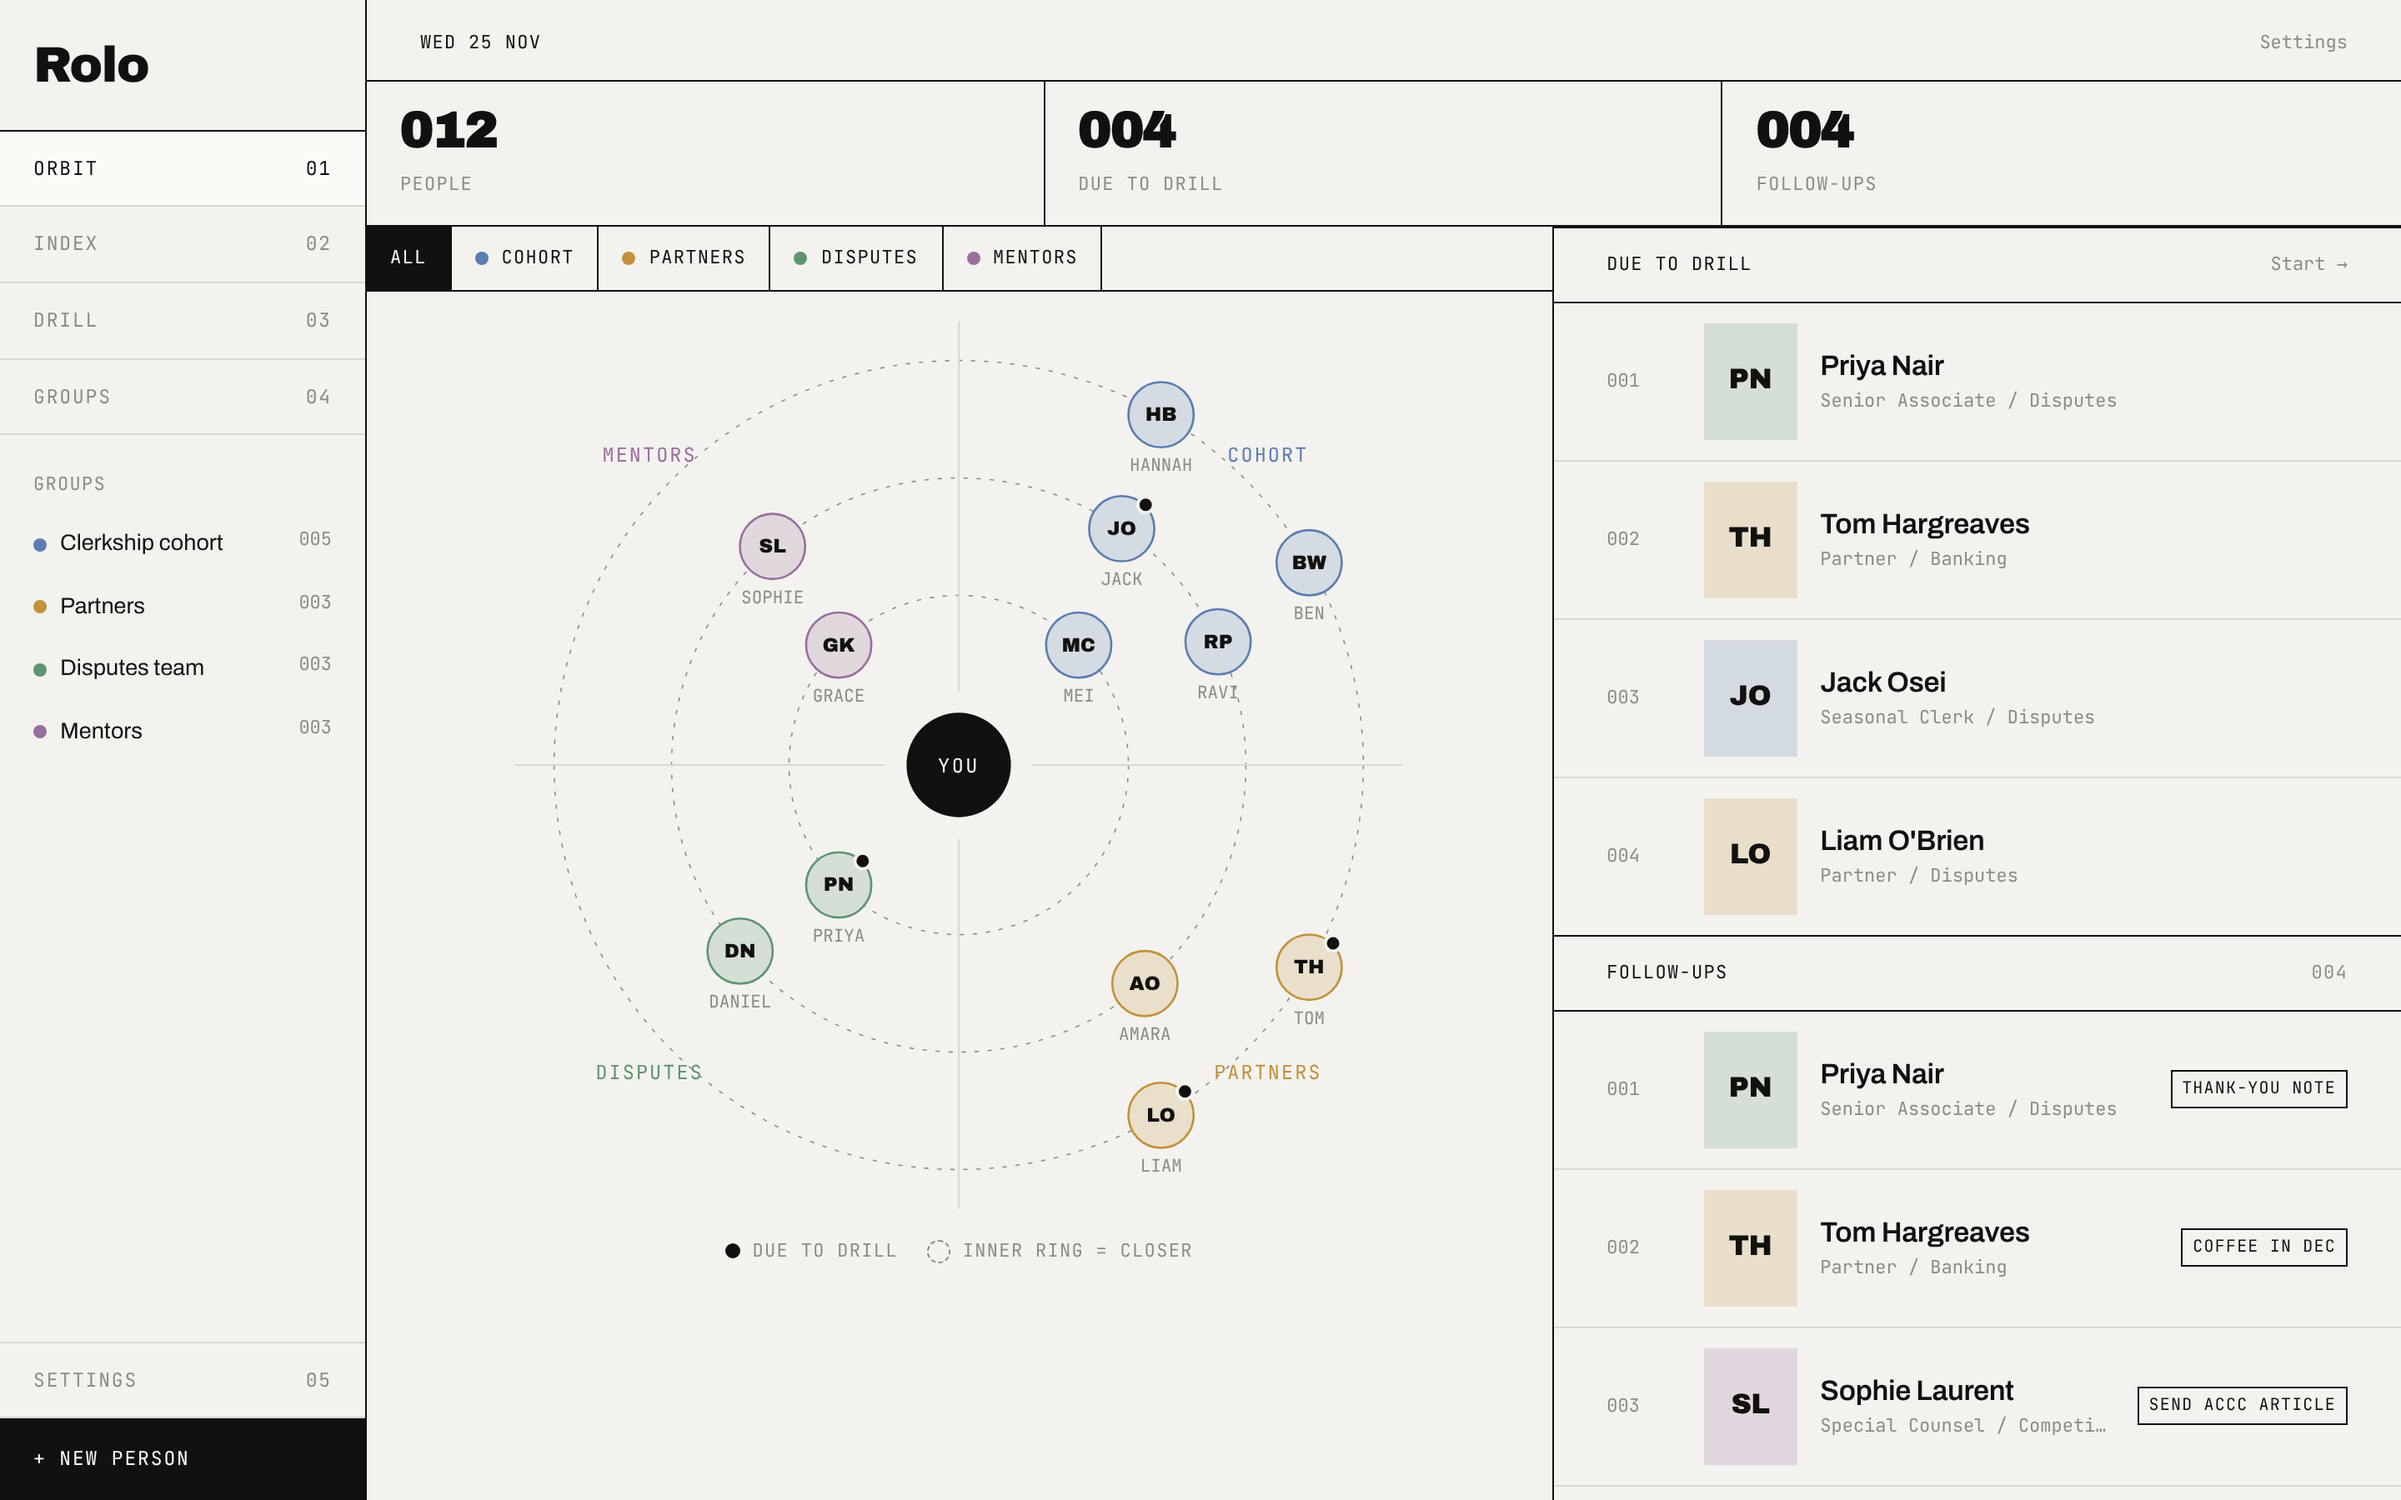
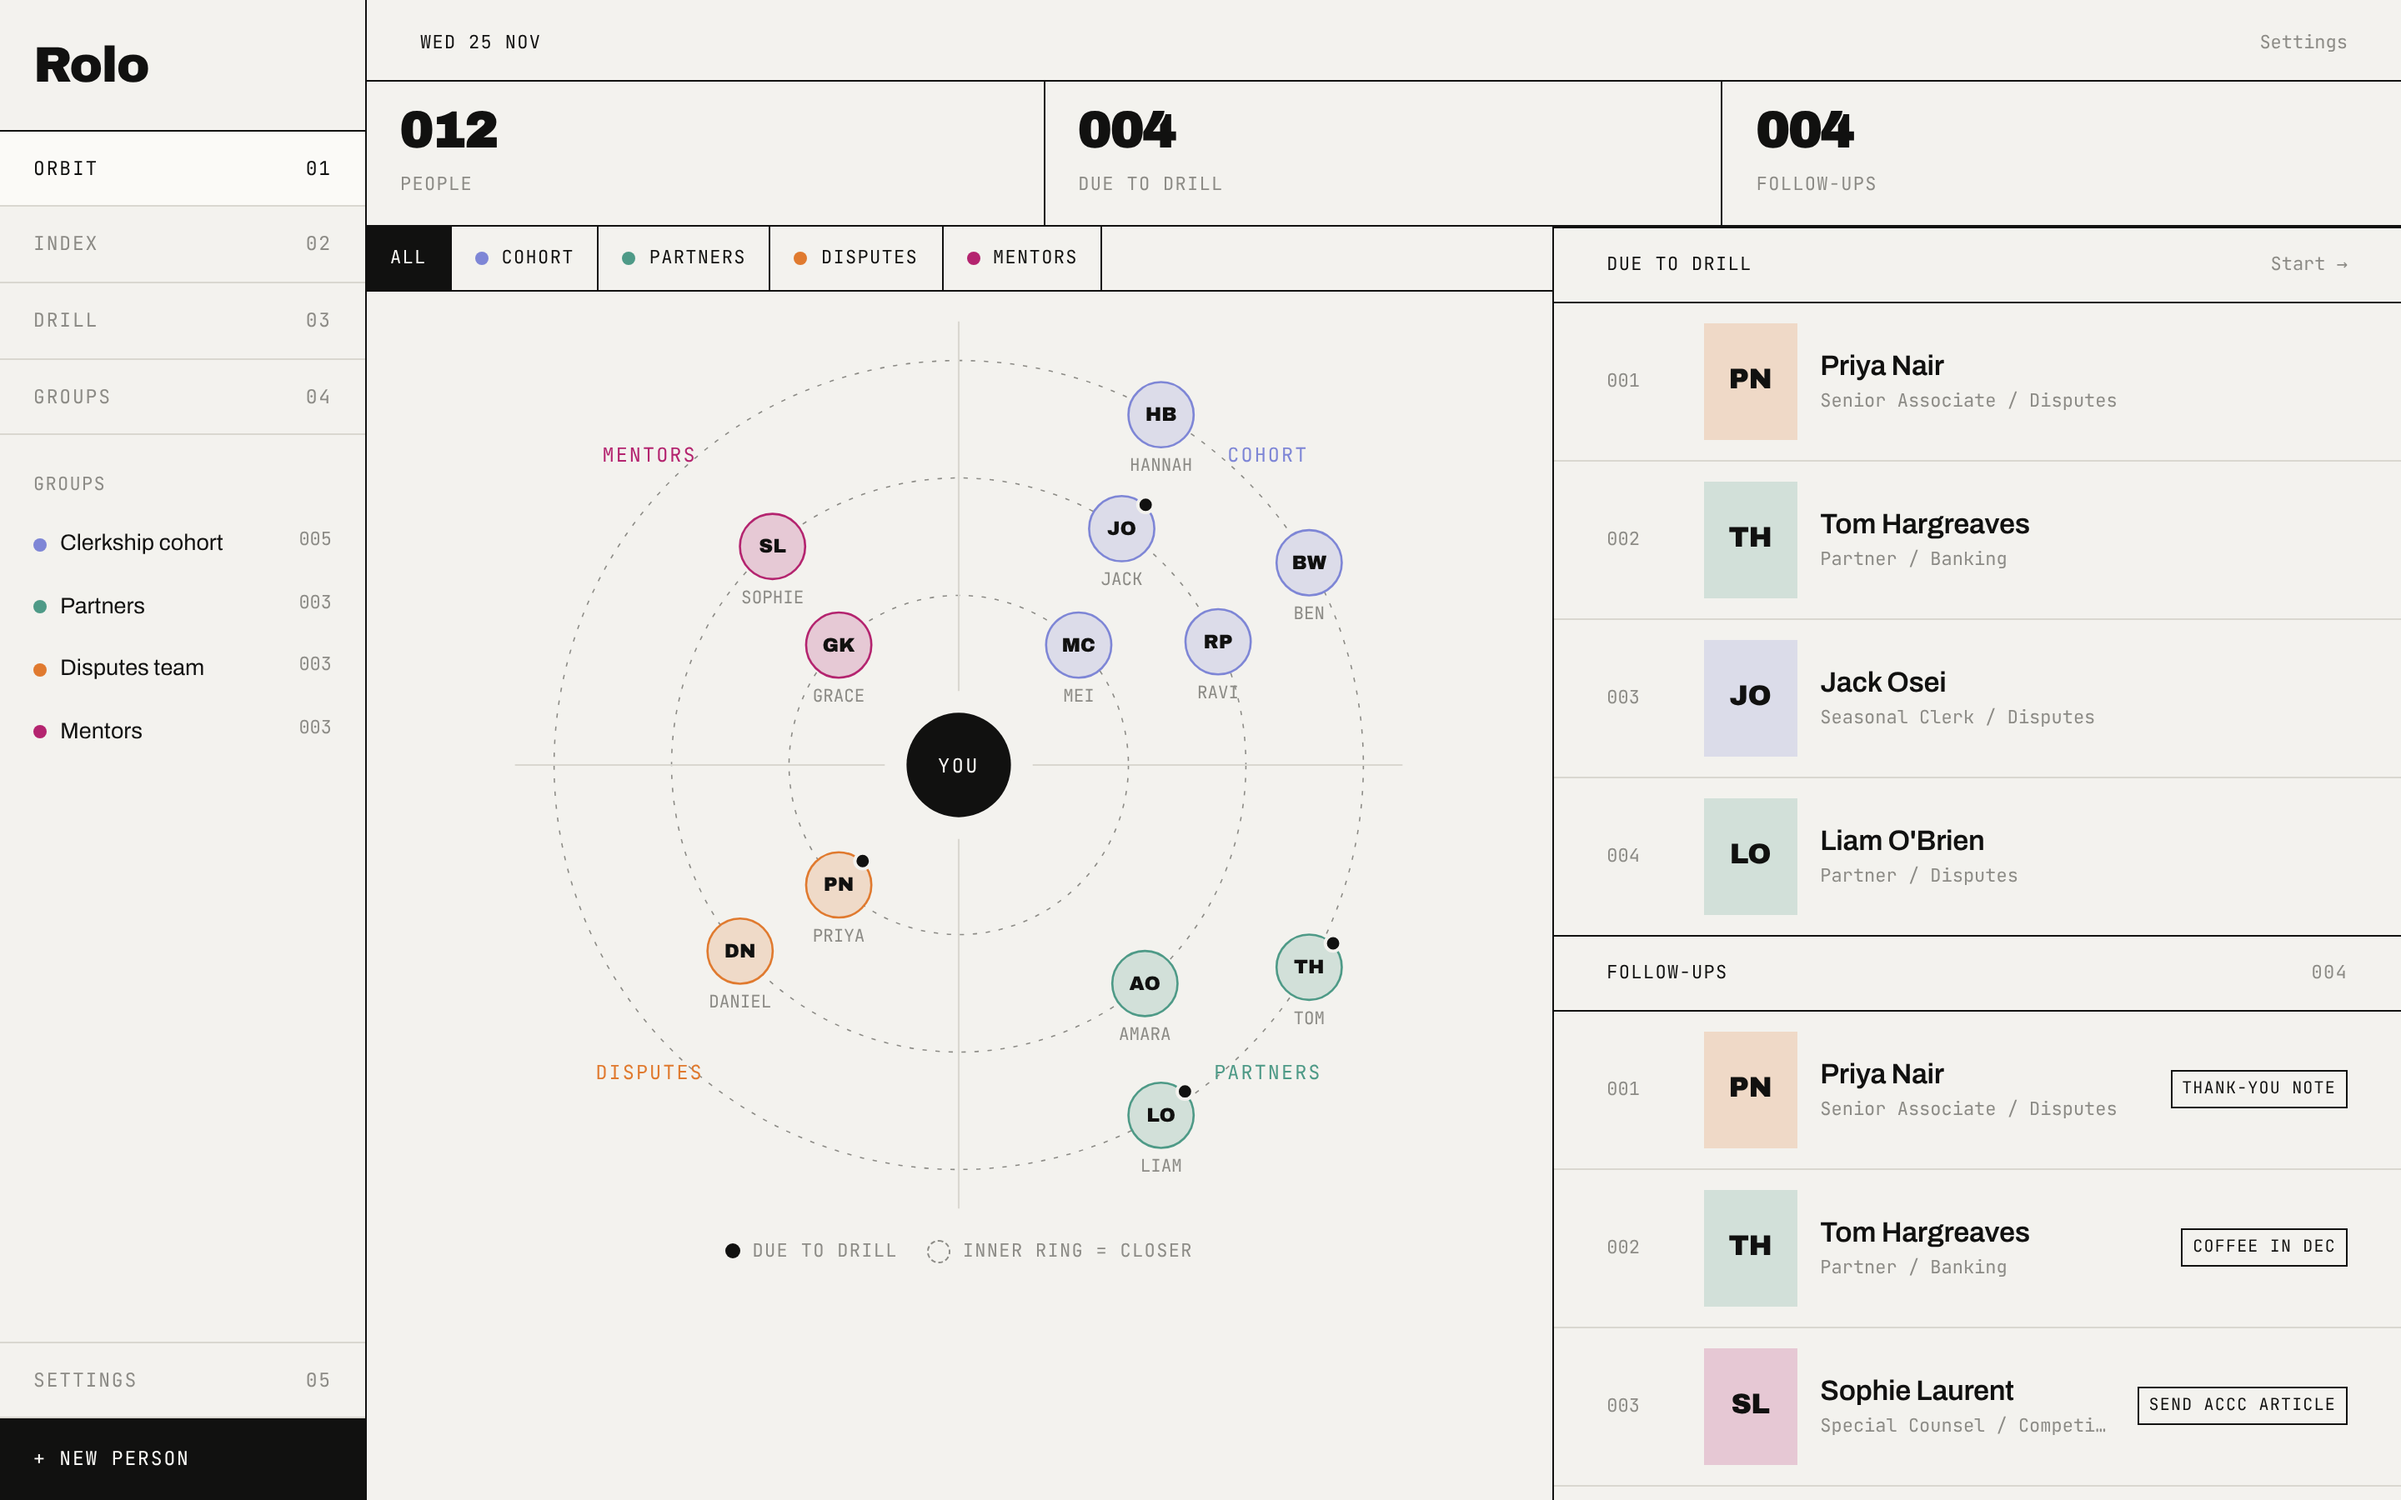
Colour mode: Big Six law firm palette, per-group colour picker, editable hexes
Claude-Session: https://claude.ai/code/session_01R71v8Qe5o2c96vbEDfs1Lo

diff --git a/mockup/index.html b/mockup/index.html
@@ -150,6 +150,11 @@ main{min-width:0;padding:0 0 96px}
 .tog.on i{transform:translateX(22px);background:var(--white)}
 .sw{display:inline-block;width:8px;height:8px;border-radius:50%;margin-right:8px;vertical-align:middle}
 .filters button.on .sw{outline:1px solid var(--white)}
+.swatches{display:flex;flex-wrap:wrap;gap:6px;justify-content:flex-end;max-width:212px;flex:none}
+.swb{width:20px;height:20px;border-radius:50%}
+.swb.on{outline:1.5px solid var(--ink);outline-offset:2px}
+.swl{width:36px;height:36px;border-radius:50%;position:relative;overflow:hidden;flex:none;border:1px solid var(--soft)}
+.swl input{position:absolute;inset:-6px;opacity:0;cursor:pointer}
 /* sheet */
 .scrim{position:fixed;inset:0;background:rgba(17,17,16,.25);display:none;z-index:30;align-items:flex-end;justify-content:center}
 .scrim.on{display:flex}
@@ -177,12 +182,26 @@ main{min-width:0;padding:0 0 96px}
 <div class="scrim" id="scrim"><div class="sheet" id="sheet"></div></div>
 
 <script>
-const groups = [
-  {id:'cohort',  name:'Clerkship cohort', short:'Cohort',  c:'#5B7DB1'},
-  {id:'partners',name:'Partners',         short:'Partners',c:'#C2913A'},
-  {id:'disputes',name:'Disputes team',    short:'Disputes',c:'#5F9472'},
-  {id:'mentors', name:'Mentors',          short:'Mentors', c:'#9A6FA0'},
+// Firm palette: one colour per Big Six firm (plus two alternates). Hexes are approximations; edit in Settings.
+const palette = [
+  {id:'kwm',     firm:'King & Wood Mallesons', name:'Periwinkle',     hex:'#7E86D6'},
+  {id:'kwm2',    firm:'King & Wood Mallesons', name:'Blackcurrant',   hex:'#3E2147'},
+  {id:'apc',     firm:'Ashurst Perkins Coie',  name:'Liberty green',  hex:'#4E9A87'},
+  {id:'ash',     firm:'Ashurst (prior)',       name:'Orange',         hex:'#E07A2F'},
+  {id:'allens',  firm:'Allens',                name:'Magenta',        hex:'#B4246F'},
+  {id:'hsf',     firm:'HSF Kramer',            name:'Slate teal',     hex:'#2F6B7C'},
+  {id:'cu',      firm:'Clayton Utz',           name:'Navy',           hex:'#22385E'},
+  {id:'minter',  firm:'MinterEllison',         name:'Rose',           hex:'#C9577A'},
 ];
+const P = id => palette.find(x=>x.id===id);
+(JSON.parse(localStorage.getItem('rolo-palette')||'[]')).forEach(([id,h])=>{ if(P(id)) P(id).hex=h });
+const groups = [
+  {id:'cohort',  name:'Clerkship cohort', short:'Cohort',  pc:'kwm'},
+  {id:'partners',name:'Partners',         short:'Partners',pc:'apc'},
+  {id:'disputes',name:'Disputes team',    short:'Disputes',pc:'ash'},
+  {id:'mentors', name:'Mentors',          short:'Mentors', pc:'allens'},
+];
+groups.forEach(g=>Object.defineProperty(g,'c',{get(){return P(g.pc).hex}}));
 // ring: 1 = inner (close), 2 = middle, 3 = outer (acquaintance)
 const people = [
   {id:1,first:'Priya',last:'Nair',role:'Senior Associate',team:'Disputes',groups:['disputes','mentors'],ring:1,due:true,met:'Clerkship wk 2, team lunch',hook:'Training for the Sydney marathon',follow:'Thank-you note',notes:[['03 Nov','Offered to review my research memo. Follow up after exams.'],['20 Oct','Grew up in Perth. Loves bouldering.']]},
@@ -209,6 +228,8 @@ const tint = p => state.colour ? gc(p)+'33' : 'var(--faint)';
 const mix = (hex,t) => '#'+[1,3,5].map(i=>Math.round(parseInt(hex.substr(i,2),16)*t+[0xF3,0xF2,0xEE][(i-1)/2]*(1-t)).toString(16).padStart(2,'0')).join('');
 const deep = p => state.colour ? gc(p) : 'var(--ink)';
 const sw = g => state.colour ? `<i class="sw" style="background:${g.c}"></i>` : '';
+function setHex(id,h){ P(id).hex=h; localStorage.setItem('rolo-palette',JSON.stringify(palette.map(x=>[x.id,x.hex]))); render() }
+function setGroupColour(gid,pid){ groups.find(g=>g.id===gid).pc=pid; render() }
 function setColour(on){ state.colour=on; localStorage.setItem('rolo-colour',on?'1':'0'); render() }
 
 let state = {colour: localStorage.getItem('rolo-colour')==='1', view:'orbit', filter:'all', q:'', person:null, fc:{i:0,flipped:false,deck:'all'}};
@@ -356,6 +377,10 @@ views.settings = function(){
   <div class="sect mono" style="border-top:1px solid var(--ink)"><span>Appearance</span></div>
   <div class="set"><div><b>Colour mode</b><small>Give each group its own colour across the orbit, index and drill. Off = black and white.</small></div>${tog(state.colour,`setColour(${!state.colour})`)}</div>
   <div class="set"><div><b>Preview</b><small>${groups.map(g=>`<span class="tagline" style="margin:6px 6px 0 0;display:inline-flex;align-items:center;gap:6px">${state.colour?`<i class="sw" style="background:${g.c};margin:0"></i>`:''}${g.short}</span>`).join('')}</small></div></div>
+  ${state.colour?`<div class="sect mono" style="border-top:1px solid var(--ink);margin-top:-1px"><span>Group colours</span><span class="grey">Tap a swatch</span></div>
+  ${groups.map(g=>`<div class="set"><div><b>${g.name}</b><small>${P(g.pc).firm} · ${P(g.pc).name}</small></div><div class="swatches">${palette.map(x=>`<button class="swb ${g.pc===x.id?'on':''}" style="background:${x.hex}" title="${x.firm} ${x.name}" onclick="setGroupColour('${g.id}','${x.id}')"></button>`).join('')}</div></div>`).join('')}
+  <div class="sect mono" style="border-top:1px solid var(--ink);margin-top:-1px"><span>Firm palette</span><span class="grey">Tap to fine-tune</span></div>
+  ${palette.map(x=>`<label class="set" style="cursor:pointer"><div><b>${x.firm}</b><small>${x.name} · ${x.hex.toUpperCase()}</small></div><span class="swl" style="background:${x.hex}"><input type="color" value="${x.hex}" onchange="setHex('${x.id}',this.value)"></span></label>`).join('')}`:''}
   <div class="sect mono" style="border-top:1px solid var(--ink);margin-top:-1px"><span>Account &amp; sync</span></div>
   <div class="set"><div><b>Signed in</b><small>Synced across your devices · Last sync just now</small></div><span class="mono grey">●&nbsp;Live</span></div>
   <div class="set"><div><b>Sign-in method</b><small>To be confirmed</small></div><span class="mono grey">→</span></div>
@@ -379,6 +404,7 @@ function openAdd(){
 function openGroup(){
   sheet(`<div class="title">New<br>group</div>
   <label class="fld"><span class="mono grey">Name</span><input placeholder="Summer clerkship 2026"></label>
+  <div class="fld"><span class="mono grey">Colour (used in colour mode)</span><div class="swatches" style="margin-top:10px">${palette.map((x,i)=>`<button class="swb ${i===0?'on':''}" style="background:${x.hex}" title="${x.firm} ${x.name}" onclick="this.parentNode.querySelectorAll('.swb').forEach(b=>b.classList.remove('on'));this.classList.add('on')"></button>`).join('')}</div></div>
   <div class="sheetbtns"><button onclick="closeSheet()">Cancel</button><button onclick="closeSheet()">Create →</button></div>`);
 }
 function sheet(h){ document.getElementById('sheet').innerHTML=h; document.getElementById('scrim').classList.add('on') }
